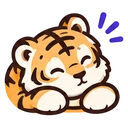
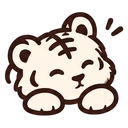
헤더 아이콘·파비콘 교체, 홈 제목 줄바꿈 수정
- 헤더 아이콘을 디자인 가이드 2번(단순화 라인아트)으로 교체, 배경 투명 처리
- 파비콘(ico 16/32/48, png, apple-touch-icon)을 파비콘 디자인 세트의 기본 파비콘으로 교체
- .page-title에 word-break: keep-all 적용 (모바일에서 단어 중간 줄바꿈 방지)

diff --git a/assets/css/style.css b/assets/css/style.css
@@ -238,6 +238,8 @@ button:focus-visible {
   font-size: 2rem;
   line-height: 1.2;
   letter-spacing: -0.02em;
+  word-break: keep-all;
+  overflow-wrap: break-word;
 }
 
 .about-quote {
